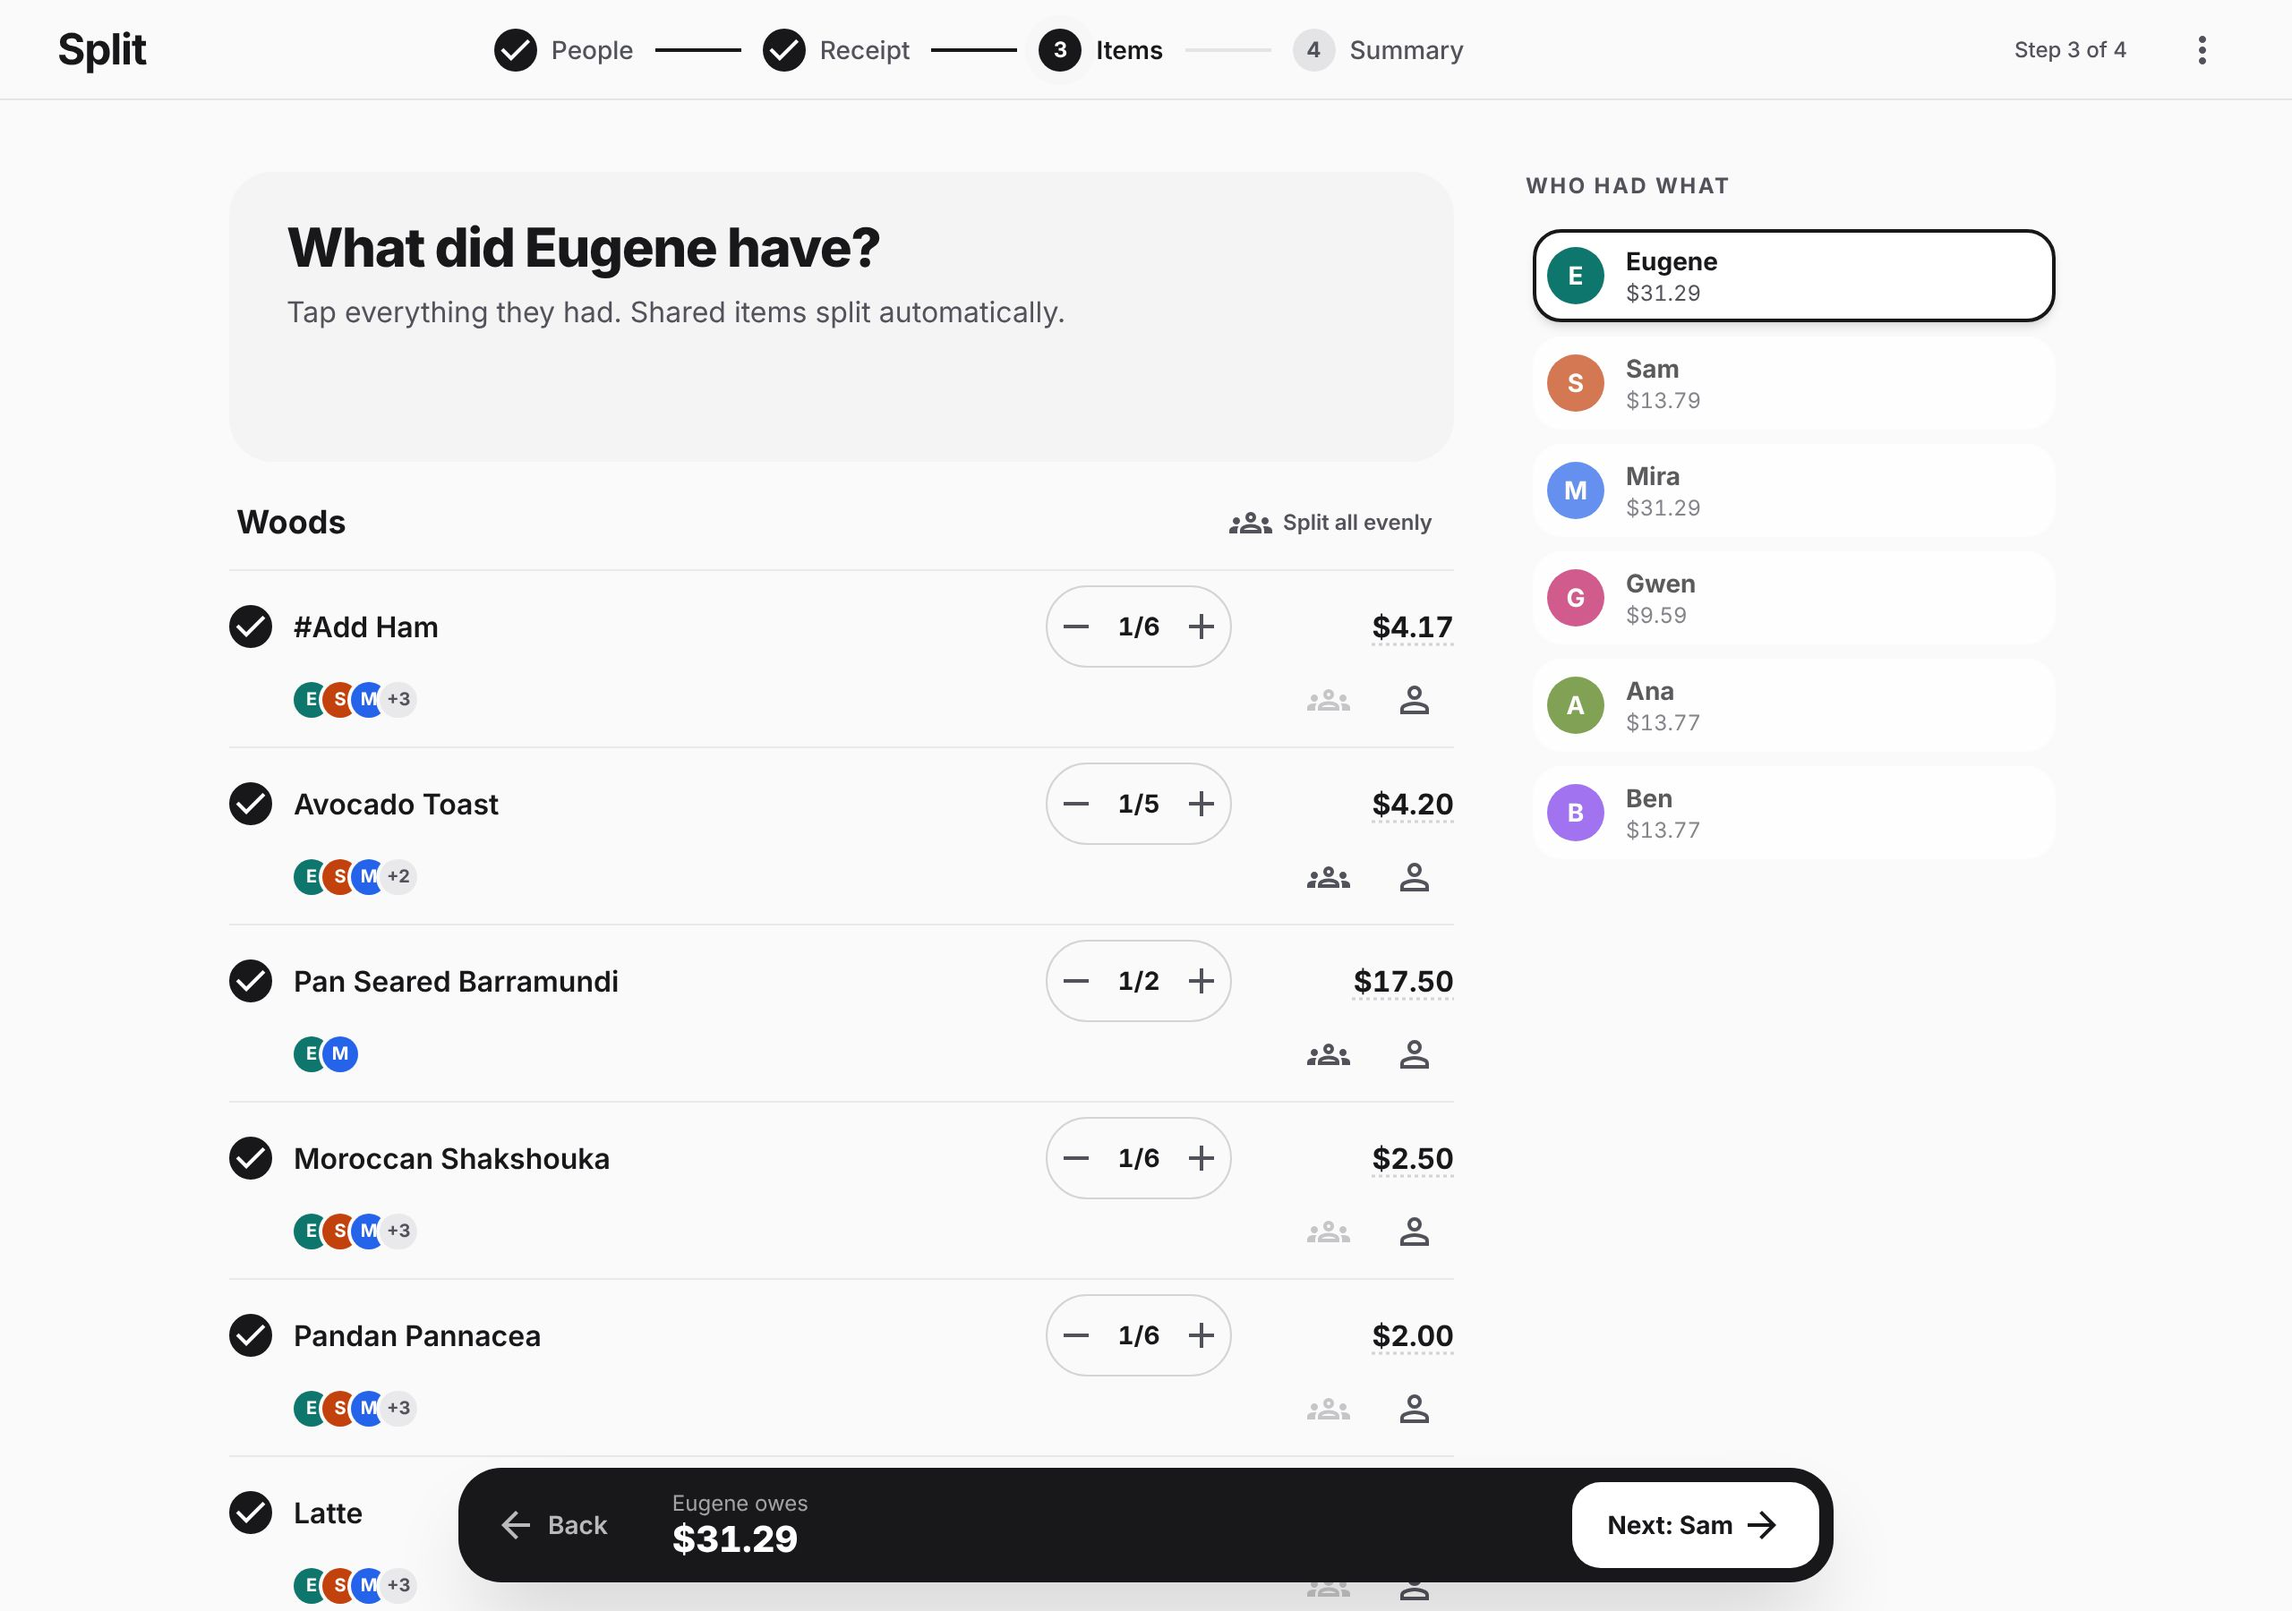
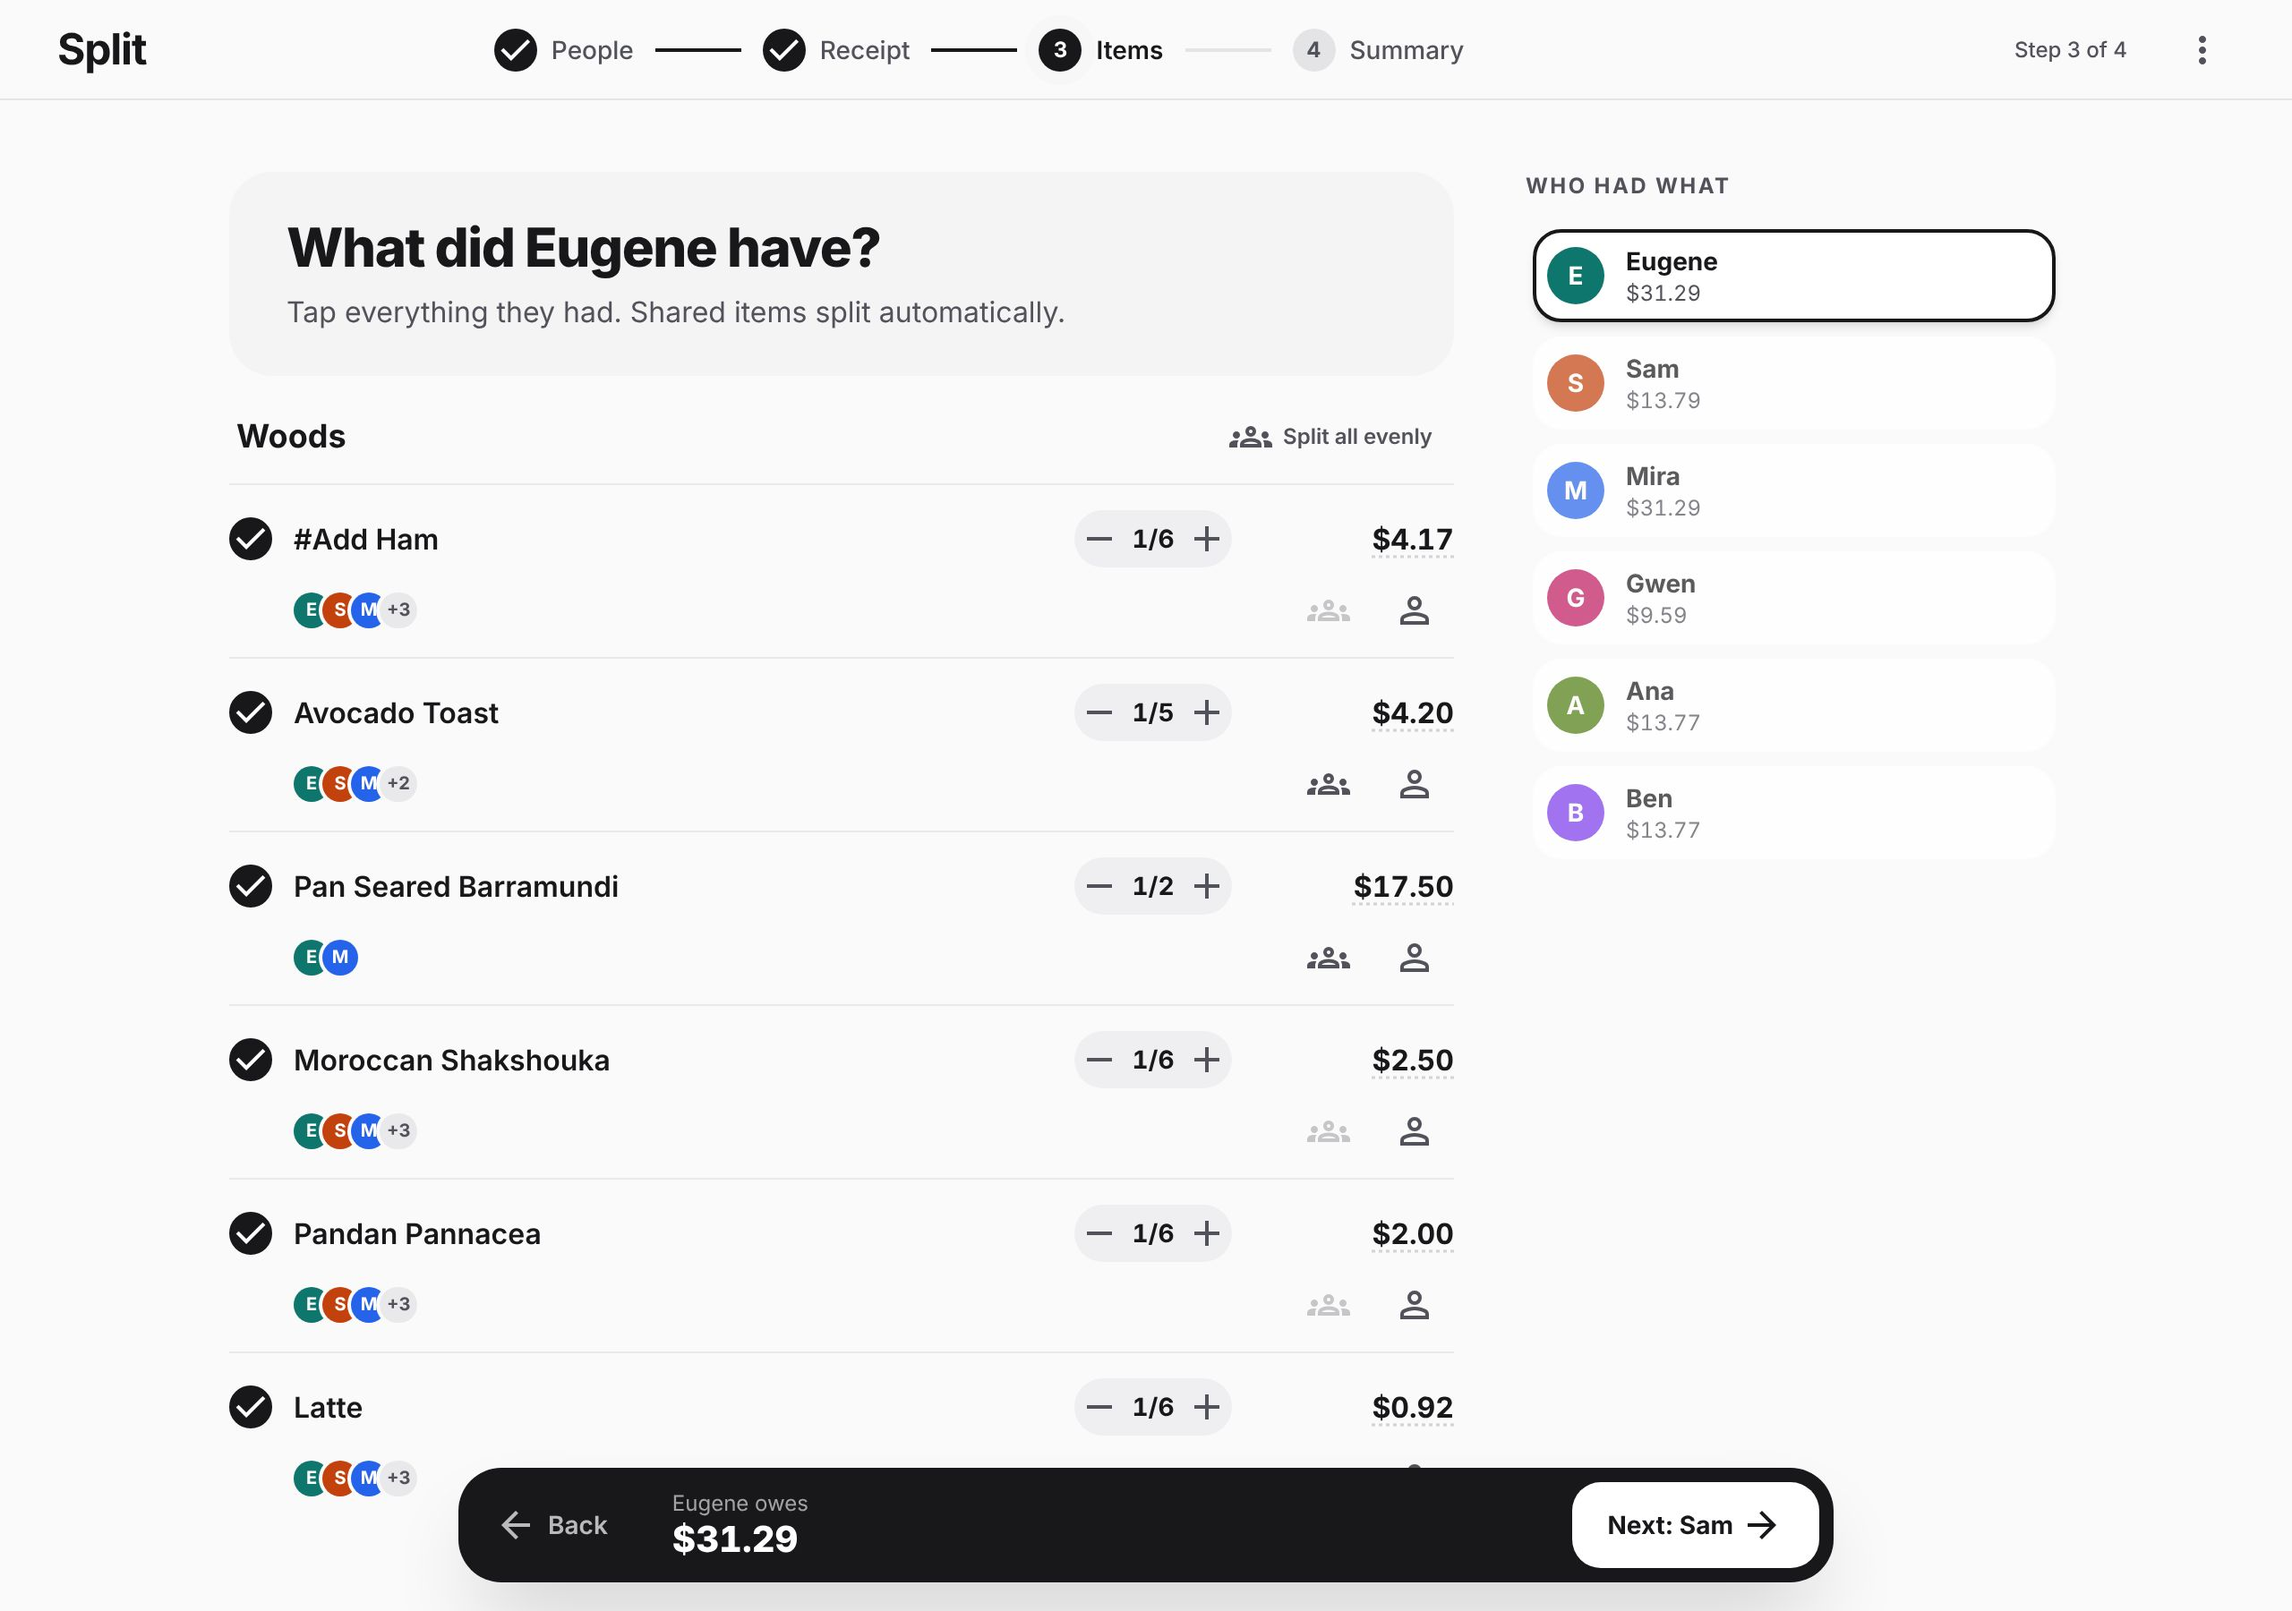
fix(items): slimmer share stepper and a tighter Items header
- The share stepper is a small borderless pill.
- Remove the "N items left" filter chip and its empty row under the step
  header, so the first receipt starts higher. Drops the now-unused
  ClaimView.leftCount and formatItemCount.

diff --git a/src/features/split-workspace/components/steps/AssignStep/AssignStep.tsx b/src/features/split-workspace/components/steps/AssignStep/AssignStep.tsx
@@ -1,14 +1,11 @@
-import { useState } from 'react';
-import type { ReactNode } from 'react';
 import { useShallow } from 'zustand/shallow';
 import { applyAssignmentCommand } from '@features/split-workspace/logic/assignmentInteraction';
 import type { AssignmentCommand } from '@features/split-workspace/logic/assignmentInteraction';
-import { formatItemCount, resolveClaimView } from '@features/split-workspace/logic/claim';
+import { resolveClaimView } from '@features/split-workspace/logic/claim';
 import { useReceiptStore } from '@features/split-workspace/stores/receiptStore';
 import { useReceiptSplit } from '@features/split-workspace/hooks/useReceiptSplit';
 import { useSlideDirection } from '@features/split-workspace/hooks/useSlideDirection';
 import { BASE_CURRENCY } from '@shared/constants';
-import { cn } from '@shared/utils/cn';
 import { StepHeader } from '@features/split-workspace/components/shared/StepHeader';
 import { SlideIn } from '@features/split-workspace/components/shared/SlideIn';
 import { ClaimItemRow } from './ClaimItemRow';
@@ -29,7 +26,6 @@ export function AssignStep({ activePersonId, onActivePersonChange }: Props) {
     })),
   );
   const { consolidated } = useReceiptSplit();
-  const [showLeftOnly, setShowLeftOnly] = useState(false);
 
   const view = resolveClaimView({
     receipts,
@@ -38,13 +34,7 @@ export function AssignStep({ activePersonId, onActivePersonChange }: Props) {
     totalByPersonCents: consolidated.split.totalByPersonCents,
     totalsCurrency: BASE_CURRENCY,
   });
-  const filtering = showLeftOnly && view.leftCount > 0;
-  const sections = view.sections
-    .map((section) => ({
-      ...section,
-      items: filtering ? section.items.filter((item) => item.isLeft) : section.items,
-    }))
-    .filter((section) => section.items.length > 0);
+  const sections = view.sections.filter((section) => section.items.length > 0);
   const personDirection = useSlideDirection(view.people.findIndex((person) => person.isActive));
 
   const applyCommand = (receiptId: string, itemId: string, command: AssignmentCommand) =>
@@ -58,7 +48,7 @@ export function AssignStep({ activePersonId, onActivePersonChange }: Props) {
   return (
     <div className="mx-auto max-w-5xl lg:grid lg:grid-cols-[minmax(0,1fr)_300px] lg:gap-10">
       <div className="min-w-0">
-        <header className="-mx-6 -mt-4 bg-surface-container-low px-6 pt-5 pb-6 md:mx-0 md:mt-0 md:rounded-3xl md:px-8 md:pt-6 md:pb-7">
+        <header className="-mx-6 -mt-4 bg-surface-container-low px-6 pt-5 pb-5 md:mx-0 md:mt-0 md:rounded-3xl md:px-8 md:pt-6 md:pb-6">
           <ClaimPeopleRail
             people={view.people}
             onSelect={onActivePersonChange}
@@ -72,17 +62,6 @@ export function AssignStep({ activePersonId, onActivePersonChange }: Props) {
               description="Tap everything they had. Shared items split automatically."
             />
           </SlideIn>
-          <div className="mt-4 flex min-h-7">
-            {view.leftCount > 0 && (
-              <Chip
-                testId="claim-left-filter"
-                pressed={filtering}
-                onClick={() => setShowLeftOnly(!filtering)}
-              >
-                {formatItemCount(view.leftCount)} left
-              </Chip>
-            )}
-          </div>
         </header>
 
         {sections.map((section) => (
@@ -154,31 +133,5 @@ export function AssignStep({ activePersonId, onActivePersonChange }: Props) {
         />
       </aside>
     </div>
-  );
-}
-
-interface ChipProps {
-  testId: string;
-  pressed?: boolean;
-  onClick: () => void;
-  children: ReactNode;
-}
-
-function Chip({ testId, pressed, onClick, children }: ChipProps) {
-  return (
-    <button
-      type="button"
-      data-testid={testId}
-      aria-pressed={pressed}
-      onClick={onClick}
-      className={cn(
-        'flex items-center gap-1 rounded-full border px-3 py-1 text-xs font-semibold transition-colors',
-        pressed
-          ? 'border-primary bg-primary text-on-primary'
-          : 'border-outline-variant bg-surface-container-lowest hover:bg-surface-container',
-      )}
-    >
-      {children}
-    </button>
   );
 }

diff --git a/src/features/split-workspace/components/steps/AssignStep/AssignStep.test.tsx b/src/features/split-workspace/components/steps/AssignStep/AssignStep.test.tsx
@@ -120,17 +120,15 @@ describe('AssignStep', () => {
     expect(screen.getAllByTestId('claim-person-p2')[0]).toHaveTextContent('$4.50');
     expect(screen.getAllByTestId('claim-person-p2')[0]).not.toHaveTextContent(/\d+ items?/);
     expect(screen.getAllByTestId('claim-person-p2')[0]).toHaveAttribute('aria-pressed', 'true');
-    expect(screen.getByTestId('claim-left-filter')).toHaveTextContent('1 item left');
   });
 
-  it('clears the filter without inserting a completion message into the item list', () => {
+  it('does not insert a completion message into the item list', () => {
     const { refresh } = renderStep('p2');
     expect(screen.queryByTestId('claim-all-assigned')).not.toBeInTheDocument();
 
     fireEvent.click(screen.getByTestId('claim-item-toggle-open'));
     refresh();
 
-    expect(screen.queryByTestId('claim-left-filter')).not.toBeInTheDocument();
     expect(screen.queryByTestId('claim-all-assigned')).not.toBeInTheDocument();
   });
 
@@ -204,7 +202,6 @@ describe('AssignStep', () => {
     expect(screen.getByTestId('claim-item-claimants-bread')).toHaveAccessibleName(
       'Alice Tan, 1/2 left',
     );
-    expect(screen.getByTestId('claim-left-filter')).toHaveTextContent('1 item left');
   });
 
   it('takes a typed amount or percent from the price and splits the rest', () => {
@@ -286,29 +283,10 @@ describe('AssignStep', () => {
     expect(assignmentOf('b').personIds).toEqual(['p2', 'p1']);
   });
 
-  it('filters down to the items left across receipts and back', () => {
-    setStoreMock([
-      makeReceipt('r1', [makeItem('a'), makeItem('done', { personIds: ['p1'] })]),
-      makeReceipt('r2', [makeItem('b', { personIds: ['p2'] })]),
-    ]);
-    renderStep();
-
-    fireEvent.click(screen.getByTestId('claim-left-filter'));
-
-    expect(screen.getByTestId('claim-left-filter')).toHaveAttribute('aria-pressed', 'true');
-    expect(screen.getByTestId('claim-item-a')).toBeInTheDocument();
-    expect(screen.queryByTestId('claim-item-done')).not.toBeInTheDocument();
-    expect(screen.queryByTestId('claim-section-r2')).not.toBeInTheDocument();
-
-    fireEvent.click(screen.getByTestId('claim-left-filter'));
-    expect(screen.getByTestId('claim-item-done')).toBeInTheDocument();
-  });
-
-  it('shows a single receipt heading and hides the left chip when everything is assigned', () => {
+  it('shows a single receipt heading when everything is assigned', () => {
     setStoreMock([makeReceipt('r1', [makeItem('a', { personIds: ['p1'] })])]);
     renderStep();
 
     expect(screen.getByRole('heading', { level: 2, name: /Receipt r1/ })).toBeVisible();
-    expect(screen.queryByTestId('claim-left-filter')).not.toBeInTheDocument();
   });
 });

diff --git a/src/pages/ReceiptSplitterPage.test.tsx b/src/pages/ReceiptSplitterPage.test.tsx
@@ -701,7 +701,6 @@ describe('ReceiptSplitterPage integration', () => {
       fireEvent.change(input, { target: { value: '50%' } });
       fireEvent.blur(input);
       expect(screen.getByTestId('wizard-status')).toHaveTextContent('Alice owes$3.00');
-      expect(screen.getByTestId('claim-left-filter')).toHaveTextContent('1 item left');
 
       clickContinue(); // → Bob
       expect(screen.getByTestId('claim-item-claimants-r1-i1')).toHaveAccessibleName(
@@ -722,7 +721,6 @@ describe('ReceiptSplitterPage integration', () => {
         makeReceipt({ id: 'r2', items: [{ ...unclaimedItem, id: 'r2-i1' }] }),
       ]);
 
-      expect(screen.getByTestId('claim-left-filter')).toHaveTextContent('1 item left');
       expect(screen.getByTestId('claim-item-r1-i1')).toBeInTheDocument();
       expect(screen.getByTestId('claim-item-r2-i1')).toBeInTheDocument();
 
@@ -730,7 +728,6 @@ describe('ReceiptSplitterPage integration', () => {
 
       const [, r2] = useReceiptStore.getState().receipts;
       expect(r2.items[0].assignment.personIds).toEqual(['p1']);
-      expect(screen.queryByTestId('claim-left-filter')).not.toBeInTheDocument();
     });
   });
 
@@ -1001,7 +998,6 @@ describe('ReceiptSplitterPage integration', () => {
       await waitFor(() => {
         expect(screen.queryByTestId('export-save-image-btn')).not.toBeInTheDocument();
       });
-      expect(screen.getByTestId('claim-left-filter')).toHaveTextContent('1 item left');
     });
   });
 

diff --git a/src/features/split-workspace/components/steps/AssignStep/ShareStepper.tsx b/src/features/split-workspace/components/steps/AssignStep/ShareStepper.tsx
@@ -9,7 +9,7 @@ interface Props {
 /** Fixed width so the steppers and prices line up down the list, whatever the label. */
 export function ShareStepper({ share, onStep, testId }: Props) {
   return (
-    <span className="flex w-26 shrink-0 items-center rounded-full border border-outline-variant">
+    <span className="flex h-8 w-22 shrink-0 items-center rounded-full bg-surface-container">
       <StepButton
         icon="remove"
         label="Take a smaller share"
@@ -47,9 +47,9 @@ function StepButton({ icon, label, disabled, onClick, testId }: StepButtonProps)
       data-testid={testId}
       disabled={disabled}
       onClick={onClick}
-      className="flex h-11 w-8 shrink-0 items-center justify-center rounded-full text-on-surface-variant transition-colors hover:text-on-surface disabled:opacity-30"
+      className="flex h-8 w-7 shrink-0 items-center justify-center rounded-full text-on-surface-variant transition-colors hover:text-on-surface disabled:opacity-30"
     >
-      <span className="material-symbols-outlined text-lg">{icon}</span>
+      <span className="material-symbols-outlined text-base">{icon}</span>
     </button>
   );
 }

diff --git a/src/features/split-workspace/logic/claim.ts b/src/features/split-workspace/logic/claim.ts
@@ -55,7 +55,6 @@ export interface ClaimView {
   people: ClaimPerson[];
   totalsCurrency: string;
   sections: ClaimSection[];
-  leftCount: number;
 }
 
 export type ClaimContinue =
@@ -74,10 +73,6 @@ export function resolveActivePersonId(personId: string, people: Person[]): strin
 export function countItemsLeft(receipts: Receipt[], people: Person[]): number {
   const items = receipts.flatMap((receipt) => receipt.items);
   return getDetectedItemsCount(items) - getAssignedItemsCount(items, people);
-}
-
-export function formatItemCount(count: number): string {
-  return `${count} ${count === 1 ? 'item' : 'items'}`;
 }
 
 export function resolveClaimView(args: {
@@ -115,14 +110,11 @@ export function resolveClaimView(args: {
       items,
     };
   });
-  const items = sections.flatMap((section) => section.items);
-
   return {
     activePerson: claimPeople.find((person) => person.isActive) ?? null,
     people: claimPeople,
     totalsCurrency,
     sections,
-    leftCount: items.filter((item) => item.isLeft).length,
   };
 }
 

diff --git a/src/features/split-workspace/logic/claim.test.ts b/src/features/split-workspace/logic/claim.test.ts
@@ -9,7 +9,6 @@ import {
   firstName,
   resolveActivePersonId,
   countItemsLeft,
-  formatItemCount,
   resolveClaimContinue,
   resolveClaimView,
   resolvePreviousPersonId,
@@ -172,7 +171,6 @@ describe('resolveClaimView', () => {
       ['r1', 2],
       ['r2', 2],
     ]);
-    expect(result.leftCount).toBe(3);
     expect(result.people.map((person) => person.itemCount)).toEqual([1, 0, 0]);
   });
 });
@@ -188,13 +186,6 @@ describe('countItemsLeft', () => {
     ];
 
     expect(countItemsLeft(receipts, people)).toBe(2);
-  });
-});
-
-describe('formatItemCount', () => {
-  it('pluralises items', () => {
-    expect(formatItemCount(1)).toBe('1 item');
-    expect(formatItemCount(3)).toBe('3 items');
   });
 });
 
